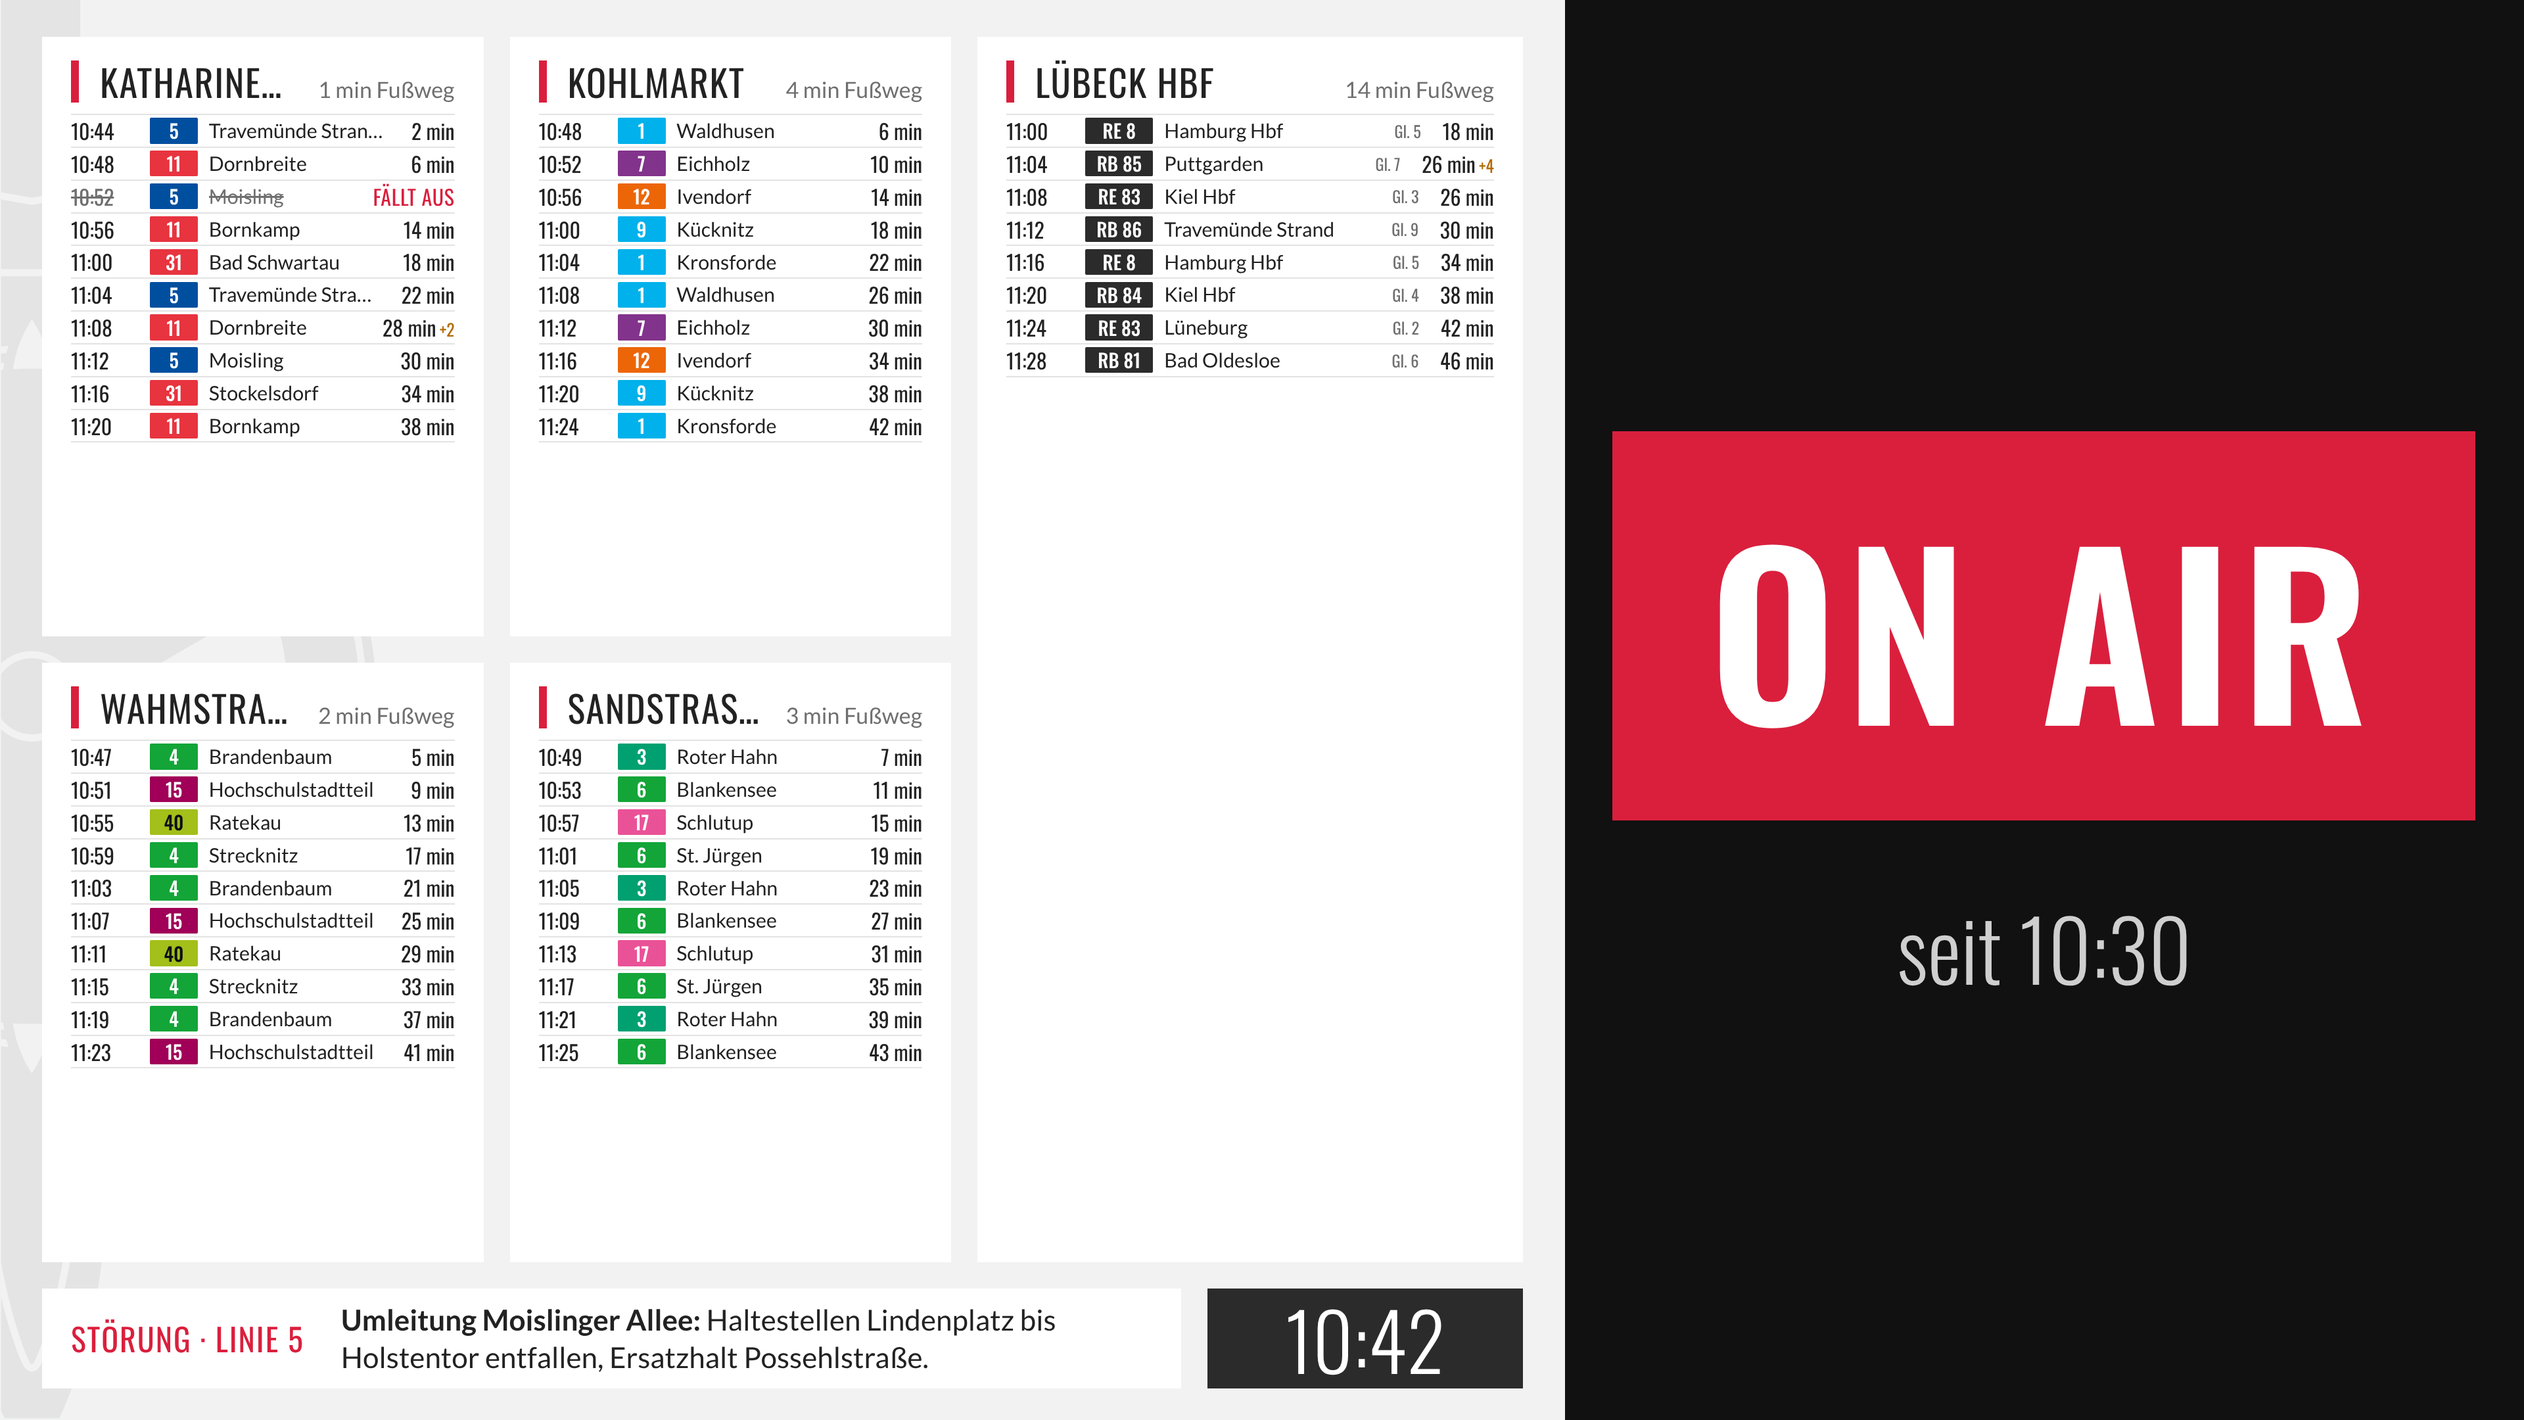
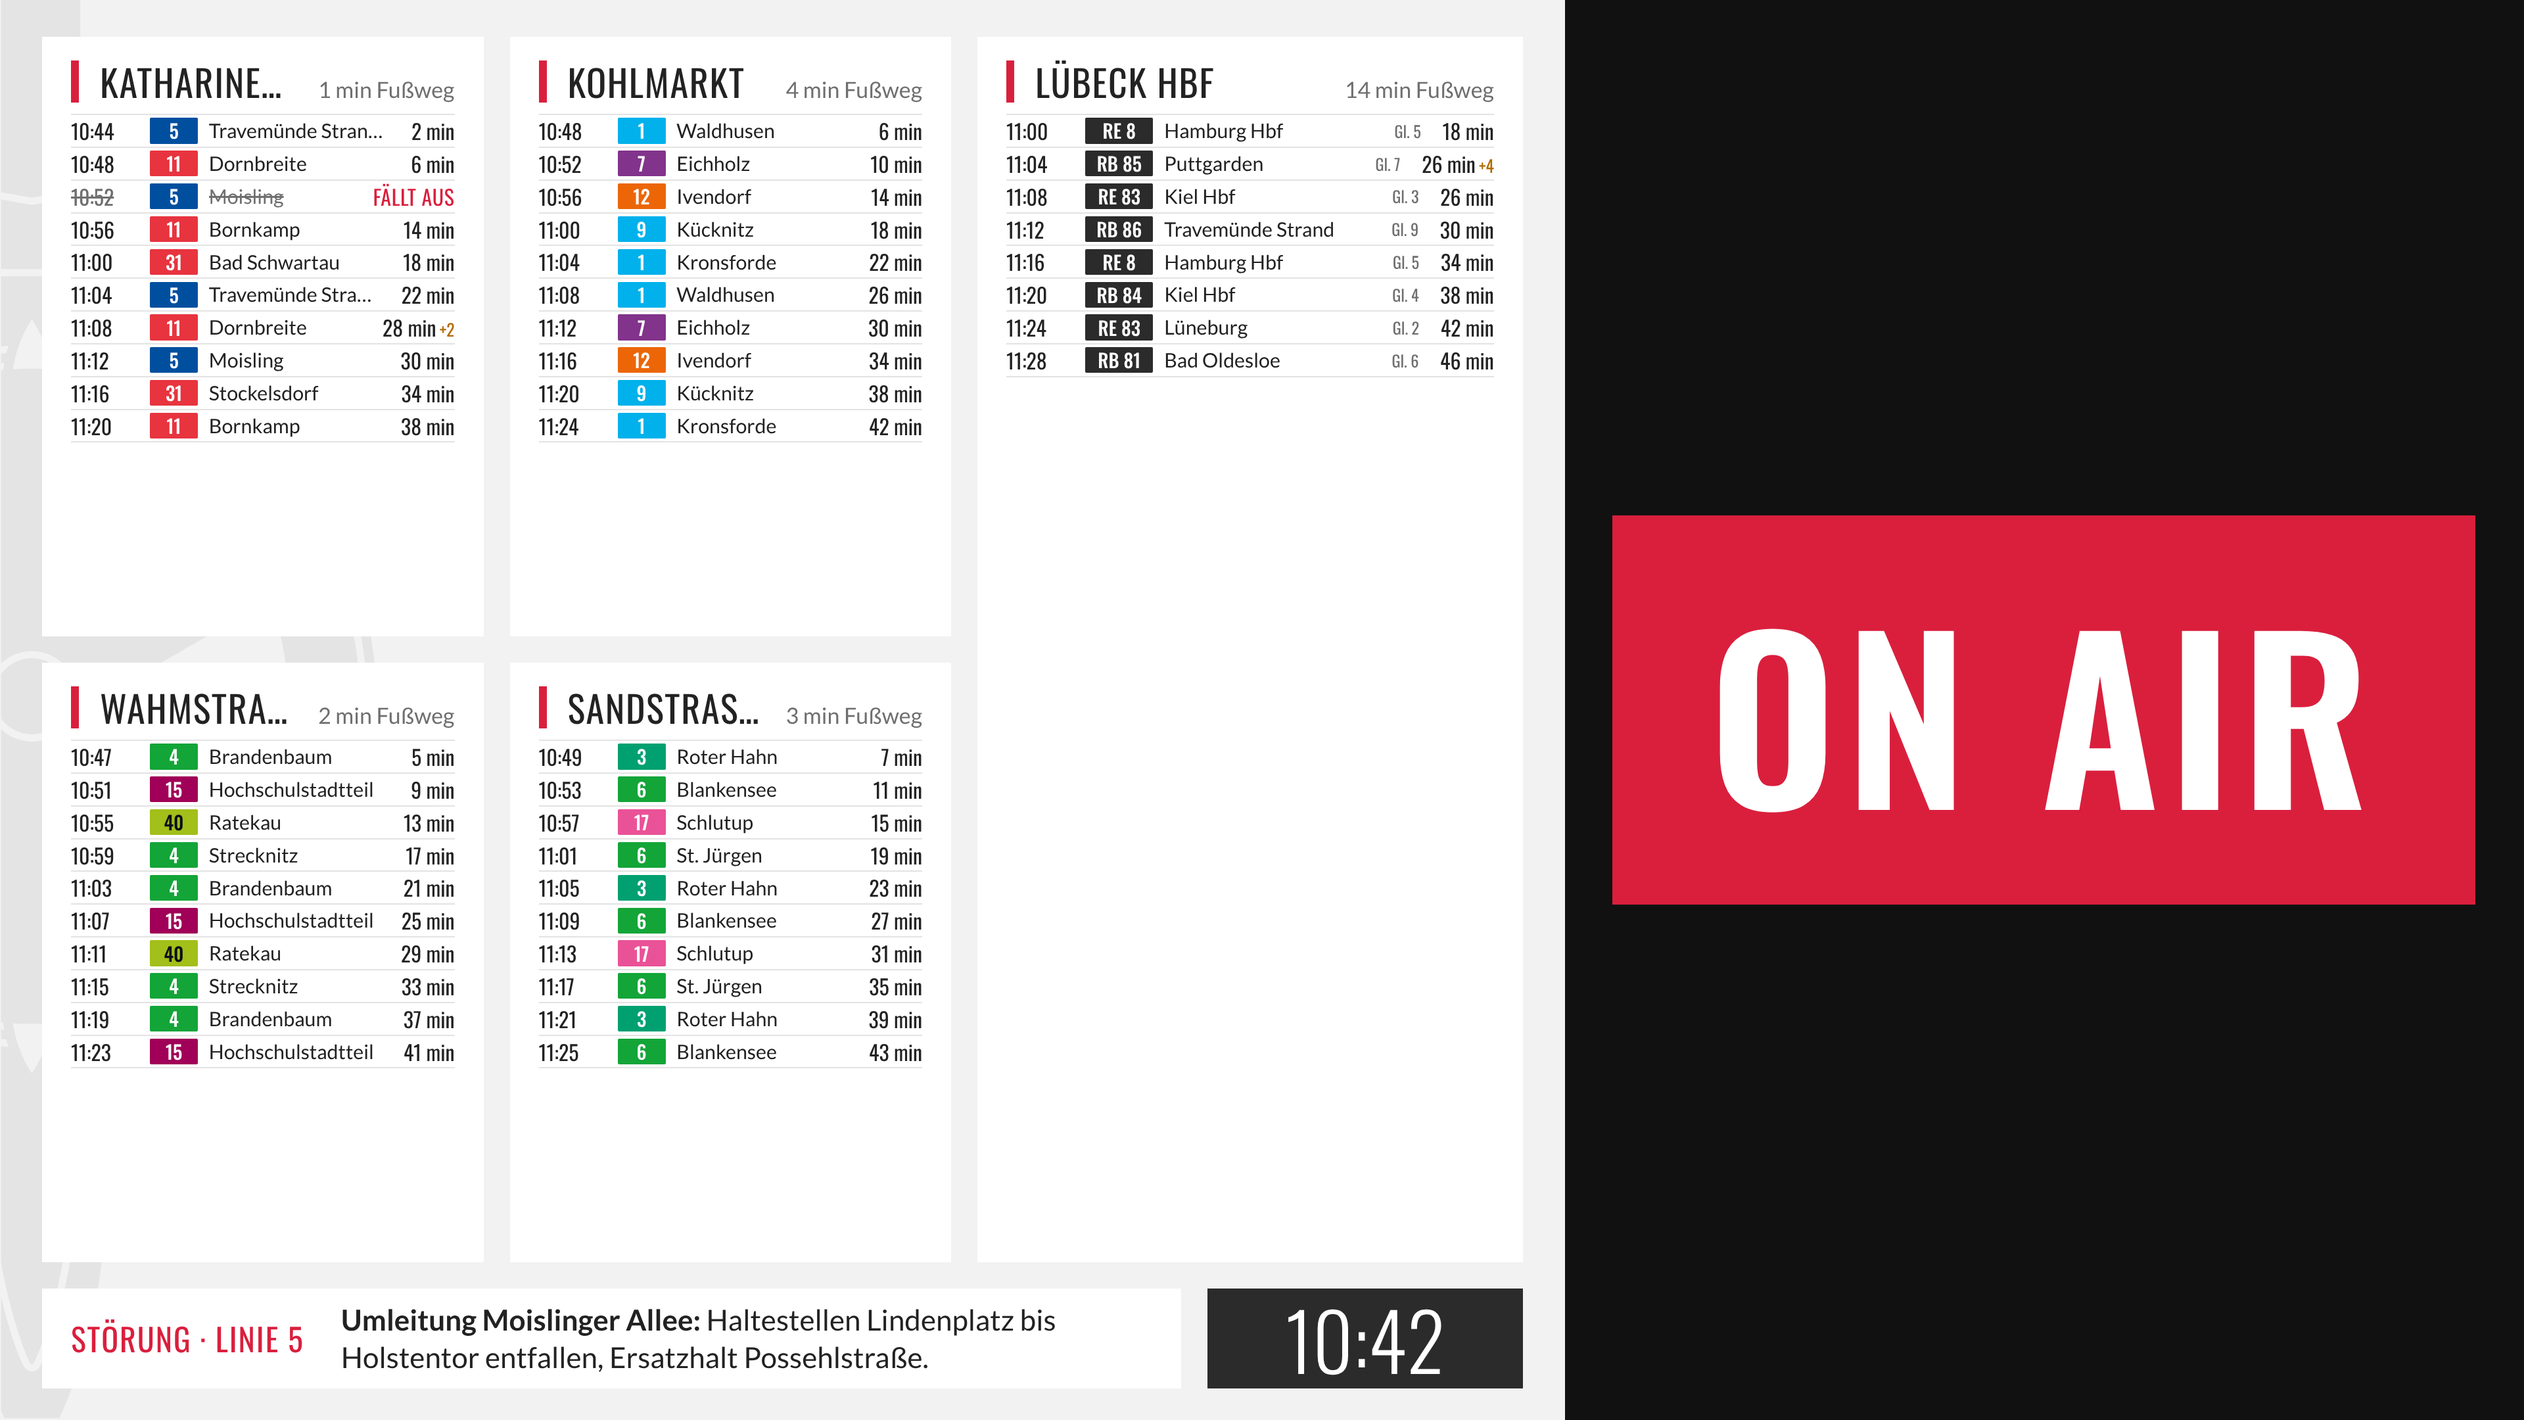
fix(display): Notfall bei Verbindungsverlust, Stand in Sondermodi, On-Air ohne "seit"
Claude-Session: https://claude.ai/code/session_01D7nDH9UeEyBKSeRzQw1WpF

Changed region(s): [[0.625, 0.2792, 1.0, 0.7134]]

diff --git a/frontend/src/components/display/DisplayRoot.test.jsx b/frontend/src/components/display/DisplayRoot.test.jsx
@@ -1,0 +1,63 @@
+import { describe, it, expect, afterEach } from 'vitest'
+import { act } from 'react'
+import { createRoot } from 'react-dom/client'
+import DisplayRoot from './DisplayRoot'
+
+globalThis.IS_REACT_ACT_ENVIRONMENT = true
+
+const screen = { slug: 'glocke', name: 'Glocke', orientation: 'landscape', scale: 'auto', power: true }
+const view = { id: 1, kind: 'info', style: 'ci', page_seconds: 15, show_weather: false, weather: null, qr: null,
+  data: { announcements: [], events: [], countdown: null } }
+const emergency = { kind: 'emergency', text: 'Bitte das Gebäude verlassen', note: 'Sammelplatz Schulhof',
+  since: '2026-10-19T08:38:00+00:00' }
+const onAir = { kind: 'on_air', display: 'fullscreen', side: 'right', text: 'ON AIR', animation: 'still',
+  show_clock: true, since: '2026-10-19T08:30:00+00:00' }
+
+let root
+let host
+function render(props) {
+  host = document.createElement('div')
+  root = createRoot(host)
+  act(() => { root.render(<DisplayRoot {...props} />) })
+  return host
+}
+const stateOf = (el) => el.querySelector('[data-display-state]')?.getAttribute('data-display-state')
+
+afterEach(() => {
+  act(() => root.unmount())
+})
+
+describe('DisplayRoot', () => {
+  const lastOkAt = new Date('2026-10-19T08:40:00+00:00').getTime()
+
+  it('zeigt bei verlorener Verbindung den zwischengespeicherten Notfall statt "Verbindung verloren"', () => {
+    const el = render({ payload: { screen, view, mode: emergency }, state: 'lost', lastOkAt, nextRetryAt: null })
+    expect(stateOf(el)).toBe('mode')
+    expect(el.querySelector('[data-mode-kind="emergency"]')).not.toBeNull()
+    expect(el.textContent).toContain('Bitte das Gebäude verlassen')
+    expect(el.textContent).toContain('Stand')
+  })
+
+  it('der Notfall gilt auch, wenn der Bildschirm laut Zwischenspeicher aus ist', () => {
+    const el = render({ payload: { screen: { ...screen, power: false }, view, mode: emergency }, state: 'lost', lastOkAt })
+    expect(el.querySelector('[data-mode-kind="emergency"]')).not.toBeNull()
+  })
+
+  it('andere Sondermodi und Ansichten zeigen bei verlorener Verbindung weiter "Verbindung verloren"', () => {
+    expect(stateOf(render({ payload: { screen, view, mode: onAir }, state: 'lost', lastOkAt }))).toBe('lost')
+    act(() => root.unmount())
+    expect(stateOf(render({ payload: { screen, view, mode: null }, state: 'lost', lastOkAt }))).toBe('lost')
+  })
+
+  it('Sondermodi im Vollbild zeigen bei veralteten Daten "Stand HH:MM"', () => {
+    const el = render({ payload: { screen, view, mode: onAir }, state: 'stale', lastOkAt })
+    expect(el.querySelector('[data-mode-kind="on_air"]')).not.toBeNull()
+    expect(el.textContent).toContain('Stand')
+  })
+
+  it('On-Air zeigt kein "seit"', () => {
+    const el = render({ payload: { screen, view, mode: onAir }, state: 'ok', lastOkAt })
+    expect(el.textContent).not.toContain('seit')
+    expect(el.textContent).not.toContain('Stand')
+  })
+})

diff --git a/frontend/src/components/display/modes/OnAirMode.jsx b/frontend/src/components/display/modes/OnAirMode.jsx
@@ -1,9 +1,9 @@
 import { ClockBox } from '../frame'
-import { formatTime } from '../lib/format'
 
 // On-Air (Entwurf mode-on-air.png): Studio-Leuchtschild, rote Fläche mit weißer Schrift auf Schwarz.
-// Darunter "seit HH:MM", im Vollbild davor die Uhr (show_clock). Im Splitscreen (panel) ohne Uhr,
-// die zeigt dort der Rahmen der Ansicht. Animation: still, pulse oder blink (display.css).
+// Darunter im Vollbild die aktuelle Uhr (show_clock), bei veralteten Daten mit "Stand HH:MM". Im
+// Splitscreen (panel) nichts darunter, die Uhr zeigt dort der Rahmen der Ansicht.
+// Animation: still, pulse oder blink (display.css).
 const ANIMATION = { pulse: 'd-onair-pulse', blink: 'd-onair-blink' }
 
 // Schriftgröße nach Textlänge, damit auch ein langer eigener Text ins Schild passt
@@ -12,9 +12,8 @@ function signFontRem(text, panel) {
   return panel ? Math.min(10.5, 68 / len) : Math.min(17, 150 / len)
 }
 
-export default function OnAirMode({ mode, panel = null }) {
+export default function OnAirMode({ mode, panel = null, staleSince = null }) {
   const text = mode.text || 'ON AIR'
-  const since = formatTime(mode.since)
   const showClock = !panel && mode.show_clock
   return (
     <div
@@ -34,15 +33,9 @@ export default function OnAirMode({ mode, panel = null }) {
           {text}
         </span>
       </div>
-      {(showClock || since) && (
-        <div
-          className={`d-oswald flex items-baseline gap-[0.75rem] whitespace-nowrap font-light leading-none text-[#cfcfcf] ${panel
-            ? 'mt-[4rem] text-[4rem]'
-            : 'absolute bottom-[7.5rem] text-[4.25rem]'}`}
-        >
-          {showClock && <ClockBox variant="compact" className="font-normal text-[#fff] [&>span]:font-normal" />}
-          {showClock && since && <span className="text-[#9a9a9a]">·</span>}
-          {since && <span>seit {since}</span>}
+      {showClock && (
+        <div className="absolute bottom-[7.5rem] text-[4.25rem] text-[#fff]">
+          <ClockBox variant="compact" staleSince={staleSince} className="[&>span:first-child]:font-normal" />
         </div>
       )}
     </div>

diff --git a/frontend/src/components/display/modes/EmergencyMode.jsx b/frontend/src/components/display/modes/EmergencyMode.jsx
@@ -13,19 +13,23 @@ function textFontRem(text) {
   return 4.25
 }
 
-export default function EmergencyMode({ mode }) {
+// staleSince: letzte gültige Daten bei veralteten Daten oder verlorener Verbindung ("Stand HH:MM" an der Uhr)
+export default function EmergencyMode({ mode, staleSince = null }) {
   const since = formatTime(mode.since)
   return (
     <div data-display-state="mode" data-mode-kind="emergency" className="d-root d-tone-light absolute inset-0 flex flex-col overflow-hidden">
-      <header className="flex h-[12.5rem] shrink-0 items-center justify-between bg-(--d-red) px-[6.25rem] text-[#fff]">
+      <header
+        className="flex h-[12.5rem] shrink-0 items-center justify-between bg-(--d-red) px-[6.25rem] text-[#fff]"
+        style={{ '--d-fg-soft': '#ffffff', '--d-muted': '#ffffffcc' }}
+      >
         <span className="d-oswald text-[7.25rem] font-medium uppercase leading-none tracking-[0.08em]">Notfall</span>
-        <ClockBox variant="compact" className="text-[5.25rem]" />
+        <ClockBox variant="compact" staleSince={staleSince} className="text-[5.25rem]" />
       </header>
       <div className="flex min-h-0 flex-1 flex-col px-[6.25rem] pb-[4.5rem] pt-[6.75rem]">
         <p className="d-oswald font-semibold leading-[1.08] text-[#111]" style={{ fontSize: `${textFontRem(mode.text)}rem` }}>
           {mode.text}
         </p>
-        {mode.note && <p className="d-lato mt-[3.25rem] max-w-[78rem] text-[2.875rem] leading-[1.5] text-[#333]">{mode.note}</p>}
+        {mode.note && <p className="d-lato mt-[3.25rem] line-clamp-4 max-w-[78rem] text-[2.875rem] leading-[1.5] text-[#333]">{mode.note}</p>}
         {since && (
           <p className="d-oswald mt-auto pt-[2rem] text-[2.25rem] uppercase leading-none tracking-[0.03em] text-(--d-muted)">
             Ausgelöst {since}

diff --git a/frontend/src/components/display/DisplayRoot.jsx b/frontend/src/components/display/DisplayRoot.jsx
@@ -7,6 +7,7 @@ import '@fontsource/lato/700.css'
 import './display.css'
 import { Frame } from './frame'
 import { MODE_COMPONENTS, isSplitMode } from './modes'
+import EmergencyMode from './modes/EmergencyMode'
 import ConnectionLost from './states/ConnectionLost'
 import IdleScreen from './states/IdleScreen'
 import Loading from './states/Loading'
@@ -38,6 +39,11 @@ function DisplayContent({ payload, state, lastOkAt, nextRetryAt, error, slug = '
     return <Loading orientation={orientation} />
   }
   if (!screen && !payload.view) return <ScreenNotFound slug={slug} orientation={orientation} />
+  // Ein zwischengespeicherter Notfall bleibt stehen, auch ohne Verbindung und bei "aus" im Zwischenspeicher
+  // (der Server schaltet bei Notfall ein); mit "Stand HH:MM" der letzten Daten.
+  if (state === 'lost' && payload.mode?.kind === 'emergency') {
+    return <EmergencyMode mode={payload.mode} orientation={orientation} staleSince={lastOkAt ?? null} />
+  }
   if (state === 'lost') {
     return <ConnectionLost screenName={screen?.name} lastOkAt={lastOkAt} nextRetryAt={nextRetryAt} orientation={orientation} />
   }
@@ -49,7 +55,7 @@ function DisplayContent({ payload, state, lastOkAt, nextRetryAt, error, slug = '
     if (isSplitMode(payload.mode) && payload.view) {
       return <ModeSplit mode={payload.mode} view={payload.view} orientation={orientation} staleSince={staleSince} />
     }
-    return <Mode mode={payload.mode} orientation={orientation} />
+    return <Mode mode={payload.mode} orientation={orientation} staleSince={staleSince} />
   }
   if (!payload.view) return <Loading orientation={orientation} />
   return <ViewScreen view={payload.view} orientation={orientation} staleSince={staleSince} />

diff --git a/frontend/src/components/display/modes/ExamMode.jsx b/frontend/src/components/display/modes/ExamMode.jsx
@@ -17,13 +17,13 @@ function titleFontRem(title, widthRem, maxRem, oneLine) {
   return Math.max(3.5, rem)
 }
 
-export default function ExamMode({ mode, orientation, panel = null }) {
-  if (panel) return <ExamPanel mode={mode} side={panel} />
+export default function ExamMode({ mode, orientation, panel = null, staleSince = null }) {
+  if (panel) return <ExamPanel mode={mode} side={panel} orientation={orientation} />
   const portrait = orientation === 'portrait'
   return (
     <Frame style="ci" orientation={orientation}>
       <div data-display-state="mode" data-mode-kind="exam" className="relative h-full">
-        <ClockBox variant="compact" className="absolute right-0 top-[1.75rem] text-[6.5rem]" />
+        <ClockBox variant="compact" staleSince={staleSince} className="absolute right-0 top-[1.75rem] text-[6.5rem]" />
         <div className={portrait ? 'pt-[14rem]' : 'pl-[2.5rem] pt-[9.5rem]'}>
           <ExamContent mode={mode} titleRem={titleFontRem(mode.title, portrait ? 52 : 72, 12, true)} />
         </div>
@@ -32,8 +32,9 @@ export default function ExamMode({ mode, orientation, panel = null }) {
   )
 }
 
-function ExamPanel({ mode, side }) {
-  const wheel = side === 'left'
+// Im Hochformat (übereinander) ohne Rad: dort trägt die Ansicht das Band mit drei Rädern
+function ExamPanel({ mode, side, orientation }) {
+  const wheel = side === 'left' && orientation !== 'portrait'
   return (
     <div data-display-state="mode" data-mode-kind="exam" className="d-root d-tone-light absolute inset-0 overflow-hidden">
       {wheel && <CiWheel look="solid" />}

diff --git a/frontend/src/components/display/views/DeparturesView.jsx b/frontend/src/components/display/views/DeparturesView.jsx
@@ -58,13 +58,13 @@ function StationCard({ station }) {
   const deps = station.departures ?? []
   const grouped = deps.some(isBus) && deps.some((d) => !isBus(d))
   const reserve = grouped ? 2 * SUBHEAD_REM * remPx : 0
-  const fit = fitRows({
-    height: height - reserve, remPx, count: deps.length, max: station.max_departures,
-    minRem: MIN_REM, prefRem: PREF_REM, lineFactor: LINE,
-  })
-  const { rows } = fit
+  // Breite begrenzt die Wunschgröße; fitRows rechnet Zeilen und Schrift dann mit genau dieser Größe
   const rowEm = hasTrains(station) ? ROW_EM.train : ROW_EM.bus
-  const fontPx = width > 0 ? Math.max(MIN_REM * remPx, Math.min(fit.fontPx, width / rowEm)) : fit.fontPx
+  const widthRem = width > 0 ? width / rowEm / remPx : PREF_REM
+  const { rows, fontPx } = fitRows({
+    height: height - reserve, remPx, count: deps.length, max: station.max_departures,
+    minRem: MIN_REM, prefRem: Math.max(MIN_REM, Math.min(PREF_REM, widthRem)), lineFactor: LINE,
+  })
   const shown = deps.slice(0, rows)
   const groups = grouped
     ? [['Züge', shown.filter((d) => !isBus(d)), true], ['Busse', shown.filter(isBus), false]].filter(([, list]) => list.length)

diff --git a/frontend/src/components/display/views/RotationView.jsx b/frontend/src/components/display/views/RotationView.jsx
@@ -22,7 +22,11 @@ export default function RotationView({ view, orientation, frame = {}, screen }) 
   if (!item?.view) {
     return (
       <Frame style={view.style} orientation={orientation} wheel={frame.wheel} stripe={frame.stripe}>
-        <div data-display-state="view" data-view-kind="rotation" className="h-full" />
+        <div data-display-state="view" data-view-kind="rotation" className="flex h-full items-center">
+          <p className="d-lato max-w-[60rem] text-[2rem] leading-[1.5] text-(--d-fg-soft)">
+            Keine Ansichten im Wechsel. Im Admin unter Monitore → Ansichten dem Wechsel Ansichten zuordnen.
+          </p>
+        </div>
       </Frame>
     )
   }
